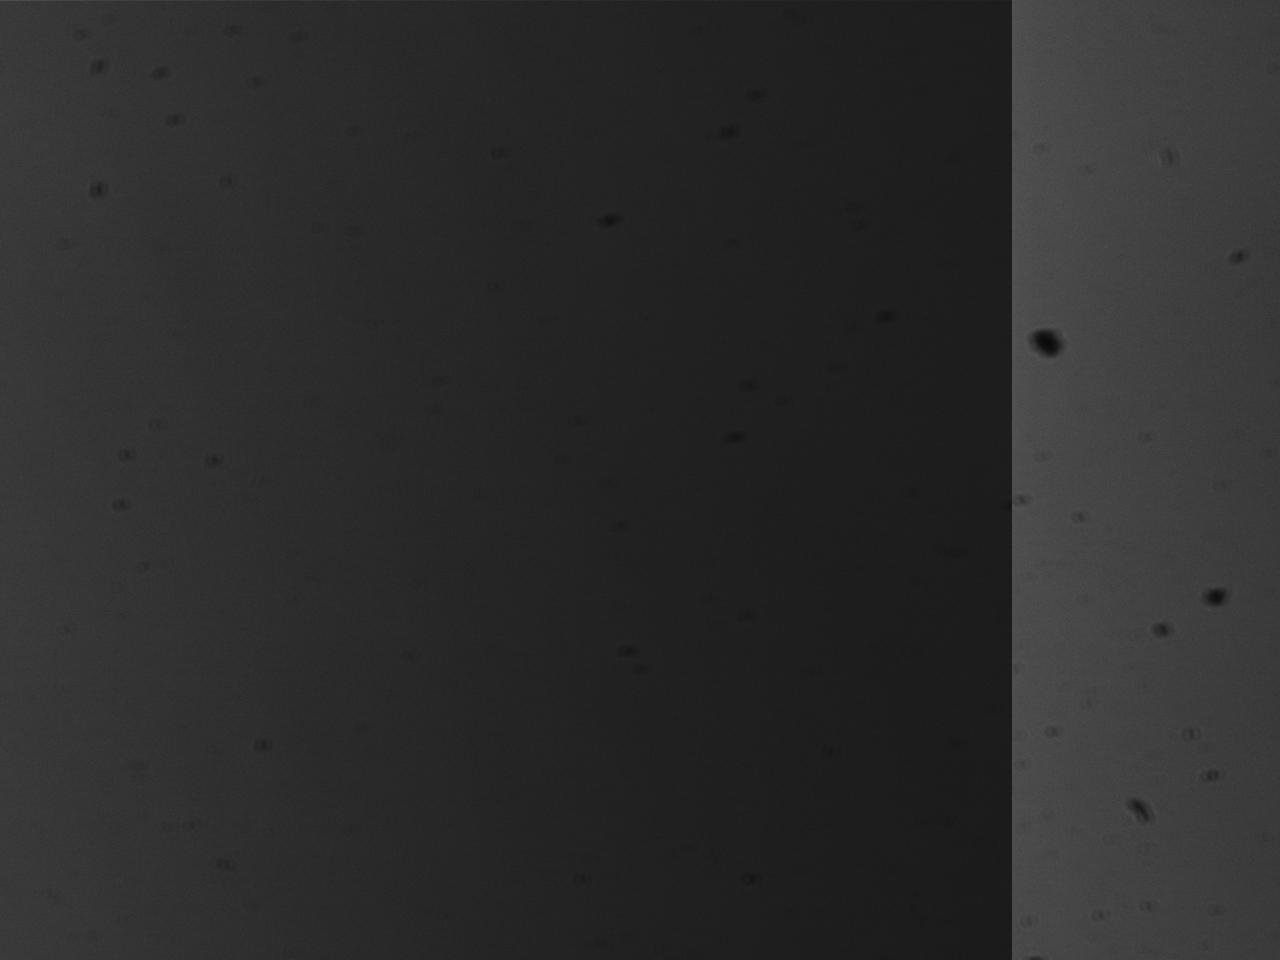
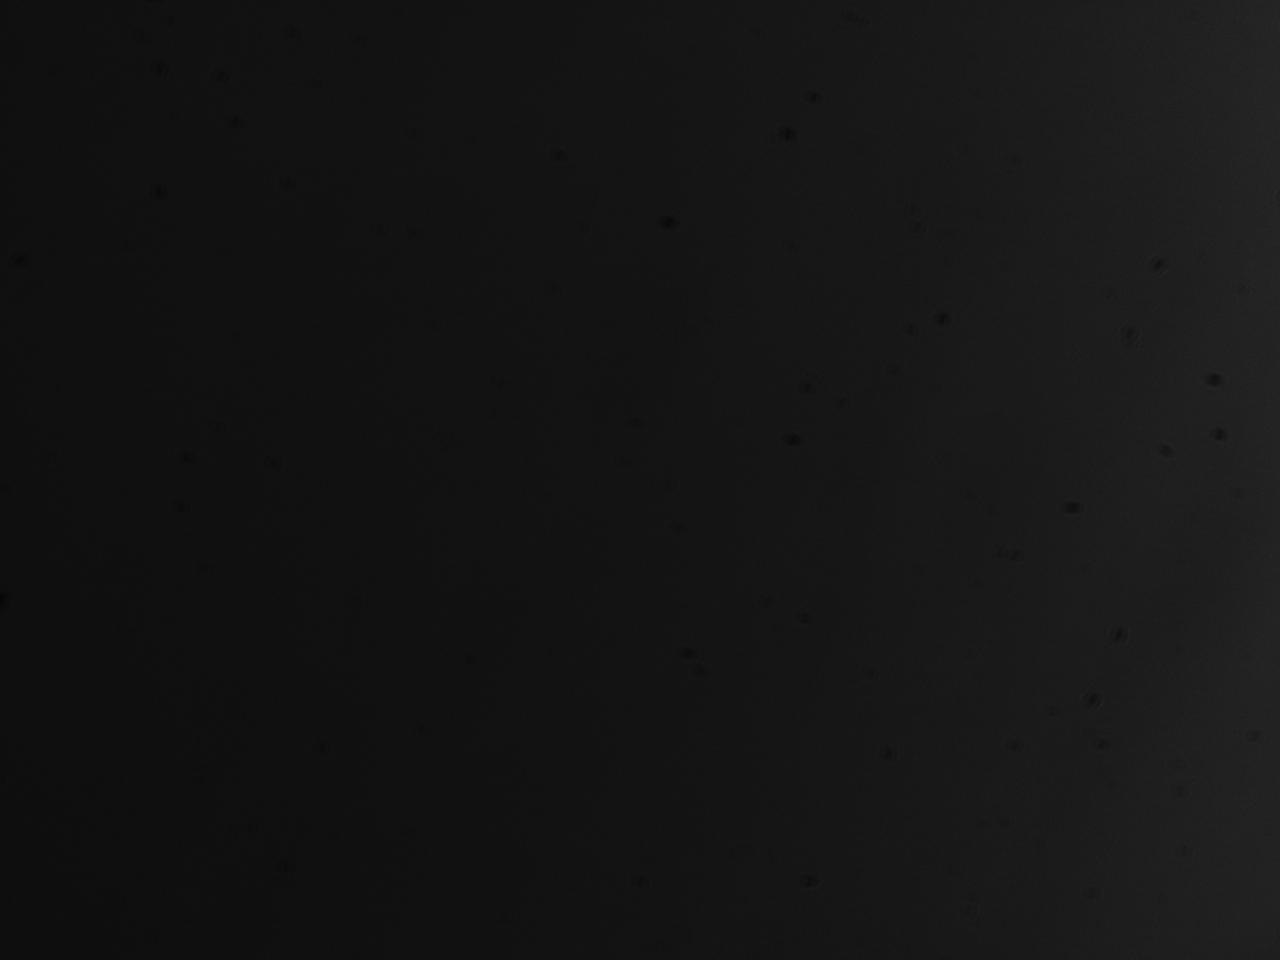
None of the things I added worked, but it turns out that the image is only shifted for the first data acquisition. So now I take an image during the initialization, and every other image is how it is supposed to be. So IC data acquisition works.

diff --git a/data_acquisition_functions.py b/data_acquisition_functions.py
@@ -328,8 +328,9 @@ class data_acqusition(object):
         if not self.cam.callback_registered:
             self.cam.register_frame_ready_callback() # needed to wait for frame ready callback
 
-        self.width, self.height, self.depth, color_format = self.cam.get_image_description()
-        print(self.width, self.height, self.depth)
+        self.width, self.height, depth, color_format = self.cam.get_image_description()
+        self.depth = depth // 8 # I have no idea why the library does this
+        self.acquire()
 
     def figure_of_merit(self):
         """Determine the figure of merit using the selected device
@@ -429,10 +430,6 @@ class data_acqusition(object):
         self.voltage = voltage
     
     def __acquire_IC(self):
-        cam_properties = self.cam.list_property_names()
-        for attribute_index in range(len(cam_properties)):
-            if (getattr(self.cam,cam_properties[attribute_index]).available == True):
-                print("Set the camera", cam_properties[attribute_index], "to", getattr(self.cam,cam_properties[attribute_index]).value, "within the range", getattr(self.cam,cam_properties[attribute_index]).range)
         self.cam.reset_frame_ready() 
         
         self.cam.send_trigger()
@@ -440,32 +437,13 @@ class data_acqusition(object):
         self.cam.wait_til_frame_ready(1000)              # wait for frame ready due to trigger
 
         data, width, height, depth = self.cam.get_image_data()
-        print("depth = ", depth)
-        frame_buffer = np.frombuffer(data)
-        frame_buffer = np.reshape(frame_buffer, (height, width, depth))
-        print("frame_buffer shape: ", frame_buffer.shape)
-        plt.imshow(frame_buffer)
-        plt.colorbar()
-        plt.show()
-        
-        arr = (ctypes.c_long * height * width * depth).from_address(addressof(data.contents))
-        frame_allocate = np.ndarray(buffer=arr,dtype=np.uint8,shape=(height, width, depth))
-        print("frame_allocate shape: ", frame_allocate.shape)
-        plt.imshow(frame_allocate)
-        plt.colorbar()
-        plt.show()
-
         frame = np.ndarray(buffer=data,dtype=np.uint8,shape=(height, width, depth))
-        print("frame shape: ", frame.shape)
-        plt.imshow(frame)
-        plt.colorbar()
-        plt.show()
-        frameout = copy.deepcopy(frame).astype(float)
-        plt.imshow(frameout)
-        plt.colorbar()
-        plt.show()
+        frameout = copy.deepcopy(frame)
+        # plt.imshow(frameout)
+        # plt.colorbar()
+        # plt.show()
 
-        self.cam.save_image(b"image.jpg", 1)
+        # self.cam.save_image(b"image.jpg", 1)
         del frame
         self.frameout = frameout
         
@@ -565,7 +543,8 @@ if __name__ == "__main__":
 
     # ic()
     device = data_acqusition("IC", 4)
-    device.figure_of_merit()
+    for i in range(1):
+        device.figure_of_merit()
     device.shut_down()
     # # device = data_acqusition("Andor", 1)
     # device.acquire()

diff --git a/figure_of_merit_functions.py b/figure_of_merit_functions.py
@@ -24,6 +24,9 @@ def ic_FOM(frameout, fom_num):
 	imgray = rgb2gray(frameout) # convert rgb image into grayscale
 	
 	satu = imgray[imgray>254].shape[0]
+    # plt.imshow(frameout,cmap=plt.get_cmap('gray'))
+    # plt.colorbar()
+    # plt.savefig('figure_of_merit.png')
 	plt.imsave('figure_of_merit.png', frameout, cmap=cm.gray)
 	if satu > 0:
 		print('Image saturated with %d pixels'%satu)
